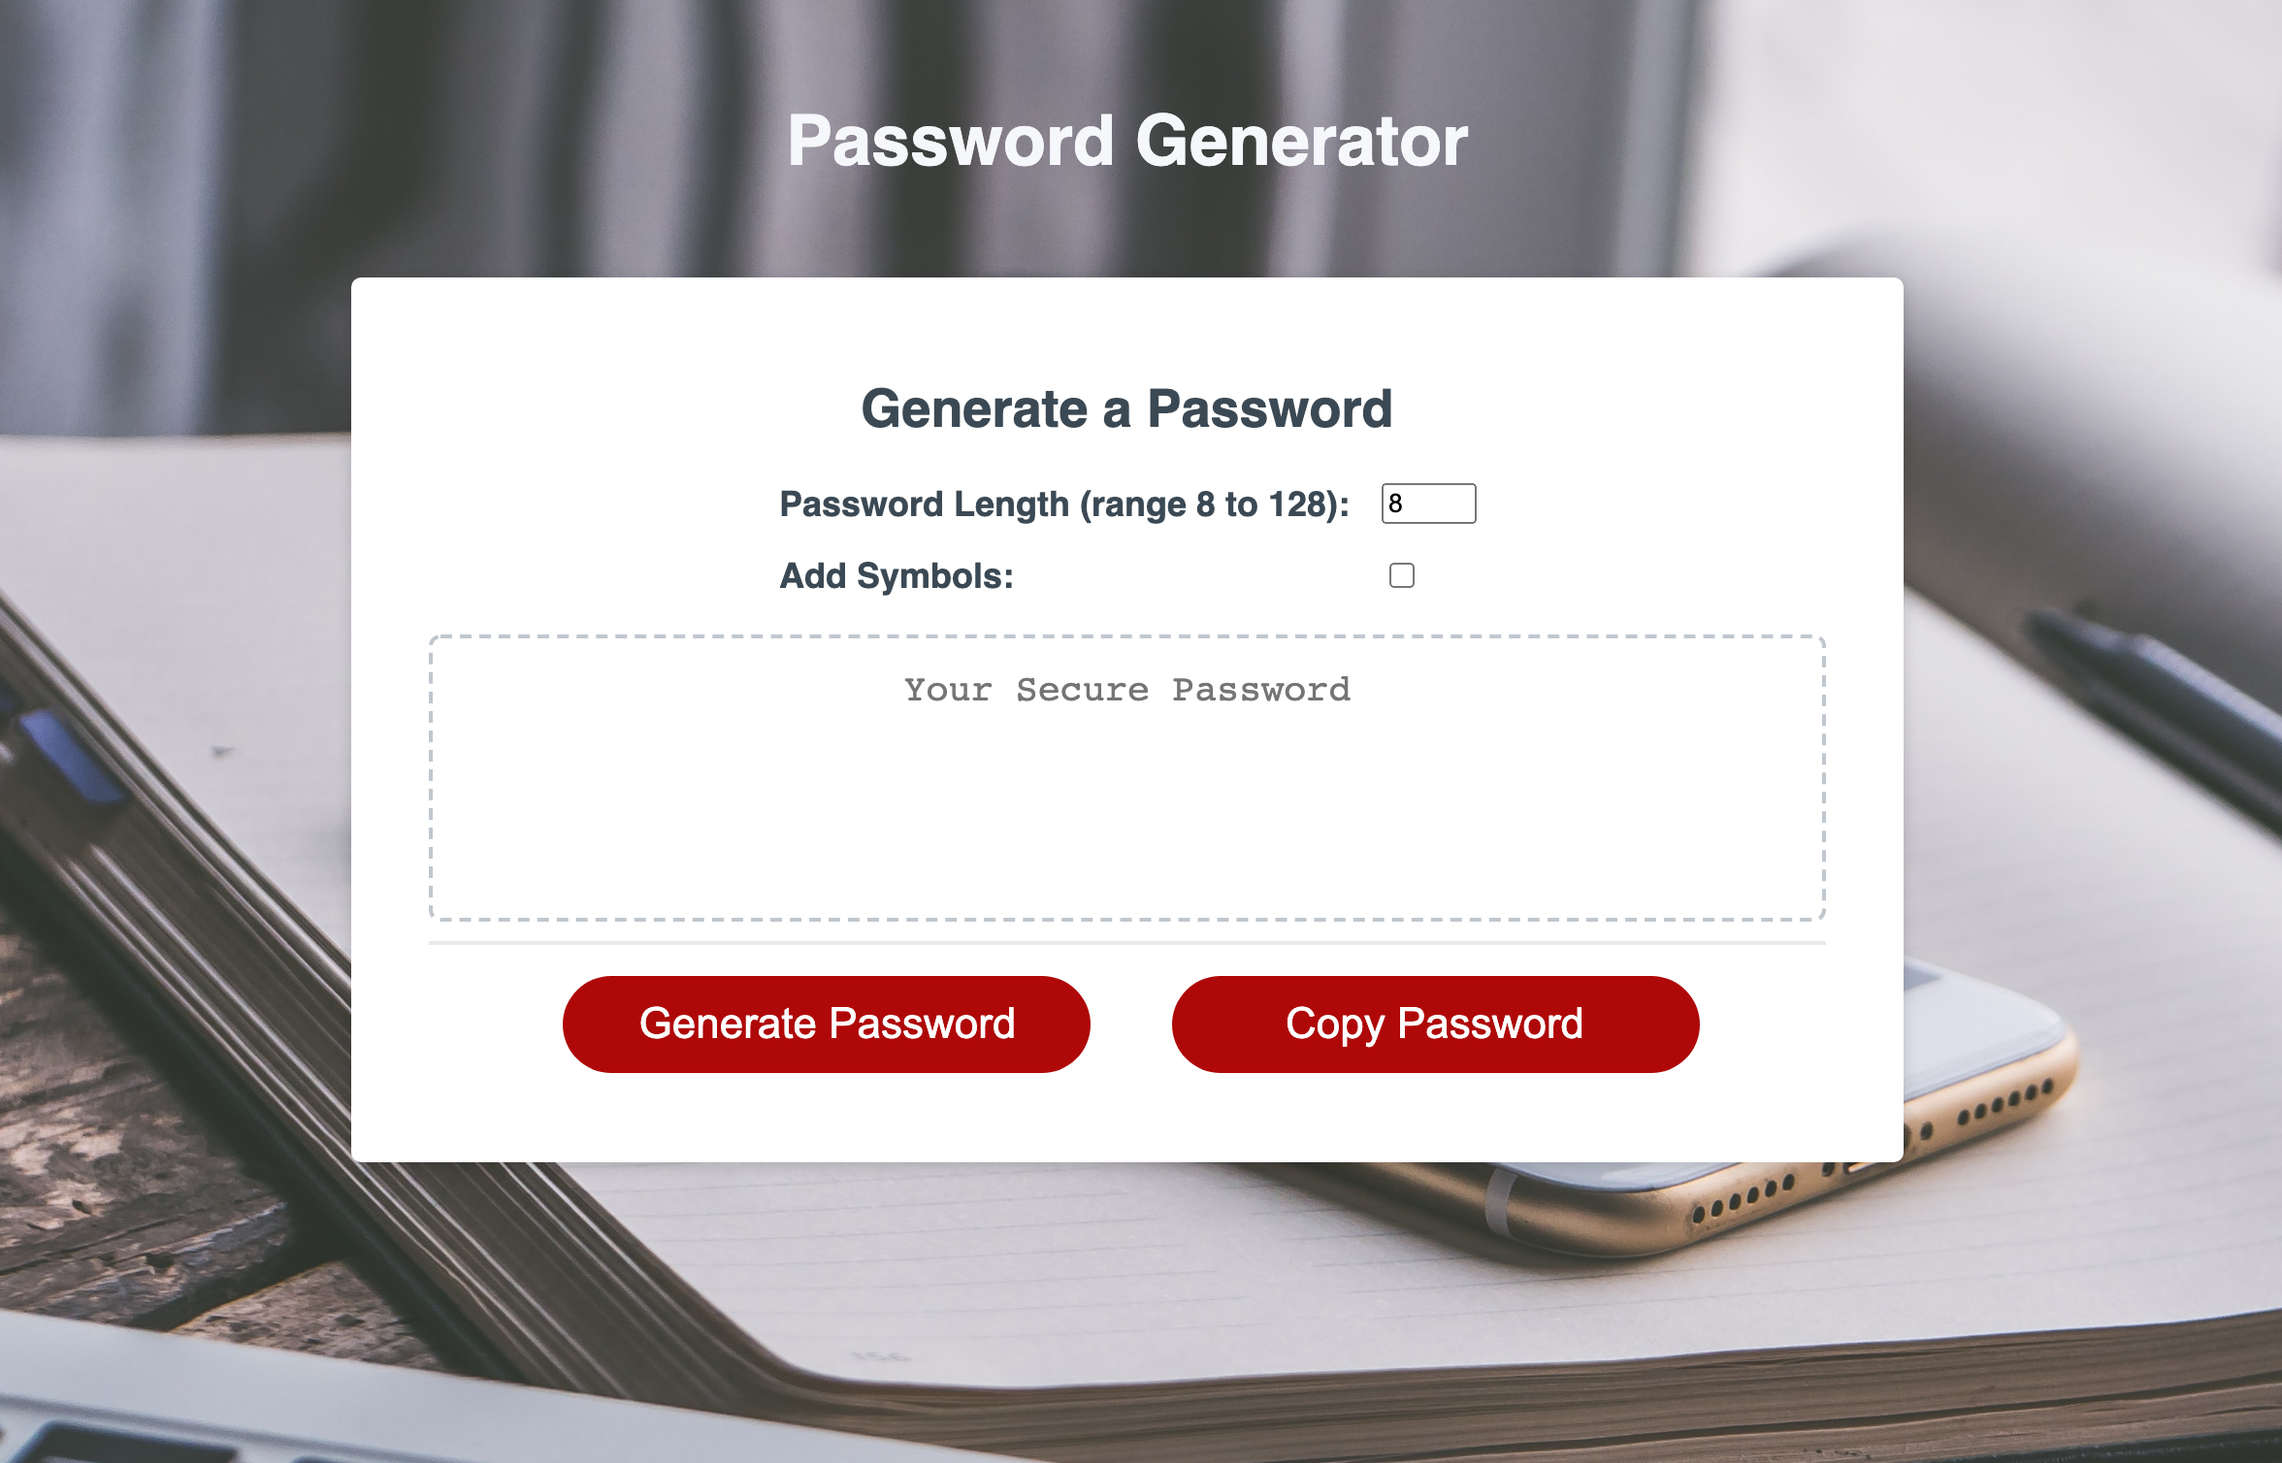
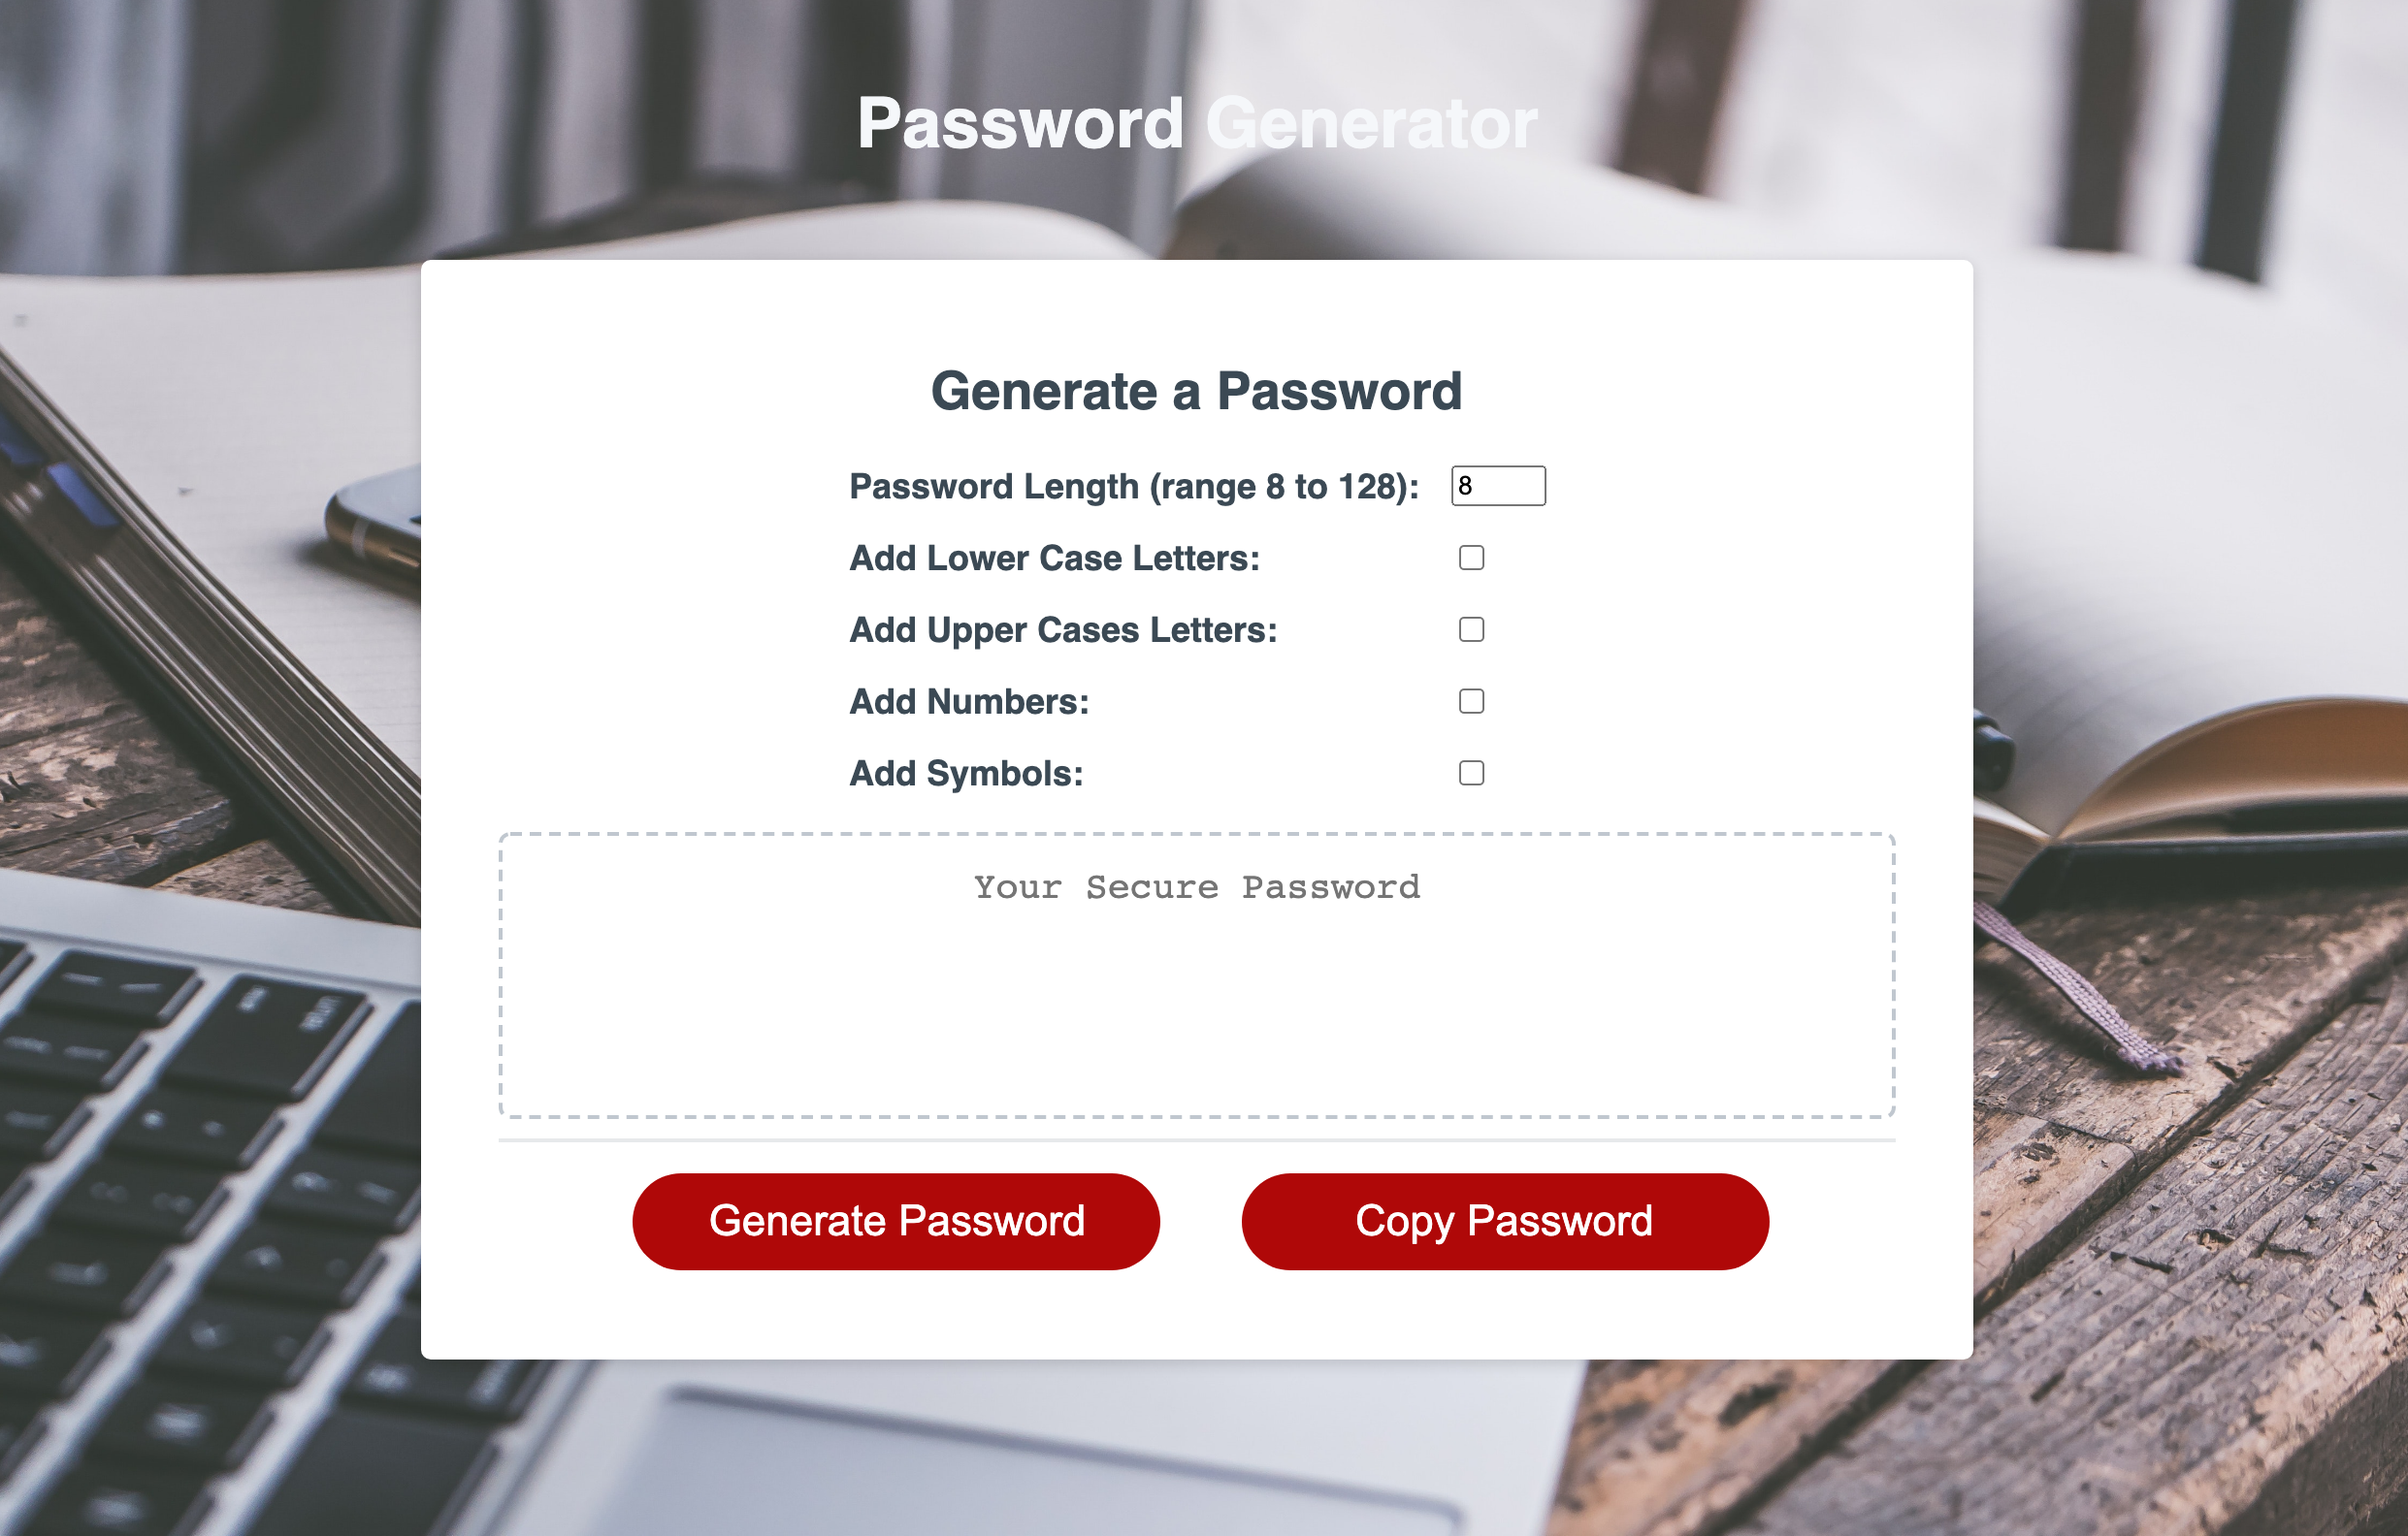
updated script.js and GeneratorPassword image

diff --git a/assets/script.js b/assets/script.js
@@ -56,27 +56,38 @@ function generatePassword() {
   var lowerCase = "abcdefghijklnmopqrstuvxyz";
   var upperCase = "ABCDEFGHIJKLMNOPQRSTUVWXYZ";
 
+  var c_symbols = document.getElementById("symbols").checked;
+  var c_numbers = document.getElementById("numbers").checked;
+  var c_upperCase = document.getElementById("upperCase").checked;
+  var c_lowerCase = document.getElementById("lowerCase").checked;
+
   var chosenLength = document.getElementById("charLength").value;
 
-  switch (true) {
-    case document.getElementById("lowerCase").checked:
-      pword = pword + lowerCase;
-      console.log(lowerCase);
+  if (document.getElementById("lowerCase").checked) {
+    pword = pword + lowerCase;
 
-    case document.getElementById("upperCase").checked:
-      pword = pword + upperCase;
+    console.log(lowerCase);
+  }
+  if (document.getElementById("upperCase").checked) {
+    pword = pword + upperCase;
 
-    case document.getElementById("numbers").checked:
-      pword = pword + numbers;
+    console.log(upperCase);
+  }
+  if (document.getElementById("numbers").checked) {
+    pword = pword + numbers;
 
-    case document.getElementById("symbols").checked:
-      pword = pword + symbols;
-      break;
-    default:
-      alert(
-        "Please check any of the checkboxes to recreate your desired password!"
-      );
-      location.reload();
+    console.log(numbers);
+  }
+  if (document.getElementById("symbols").checked) {
+    pword = pword + symbols;
+
+    console.log(symbols);
+  }
+  if (c_lowerCase && c_upperCase && c_numbers && c_symbols != checked) {
+    alert(
+      "Please check any of the checkboxes to recreate your desired password!"
+    );
+    location.reload();
   }
 
   for (var i = 0; i < chosenLength; i++) {
@@ -105,83 +116,3 @@ function copyToClipboard() {
 
   alert("Your new password was copied!");
 }
-
-/*
-function generatePassword() {
-  var pword = "";
-  var pwordSymbols = "";
-  var chosenLength = document.getElementById("charLength").value;
-
-  for (var i = 0; i < chosenLength; i++) {
-    if (symbols.checked) {
-      var pwordSymbols = Math.round(Math.random() * 5);
-
-      if (pwordSymbols > 1) {
-        pword += characters.charAt(
-          Math.floor(Math.random() * characters.length)
-        );
-      } else {
-        pword += specialChar.charAt(
-          Math.floor(Math.random() * specialChar.length)
-        );
-      }
-    } else {
-      pword += characters.charAt(Math.floor(Math.random() * characters.length));
-    }
-  }
-
-  return pword;
-}
-
-function getUpperCase() {
-  return upperCase[Math.floor(Math.random() * upperCase.length)];
-}
-
-console.log(getUpperCase());
-
-function getLowerCase() {
-  return lowerCase[Math.floor(Math.random() * lowerCase.length)];
-}
-
-console.log(getLowerCase());
-
-function getNumber() {
-  return numbers[Math.floor(Math.random() * numbers.length)];
-}
-
-console.log(getNumber());
-
-function getSpecailChar() {
-  return specialChar[Math.floor(Math.random() * specialChar.length)];
-}
-
-console.log(getSpecailChar());
-
-
-
-------------
-
-if (document.getElementById("lowerCase").checked) {
-    pword = pword + lowerCase;
-
-    console.log(lowerCase);
-  } else if (document.getElementById("upperCase").checked) {
-    pword = pword + upperCase;
-
-    console.log(upperCase);
-  } else if (document.getElementById("numbers").checked) {
-    pword = pword + numbers;
-
-    console.log(numbers);
-  } else if (document.getElementById("symbols").checked) {
-    pword = pword + symbols;
-
-    console.log(symbols);
-  } else {
-    alert(
-      "Please check any of the checkboxes to recreate your desired password!"
-    );
-    location.reload();
-  }
-
-*/
